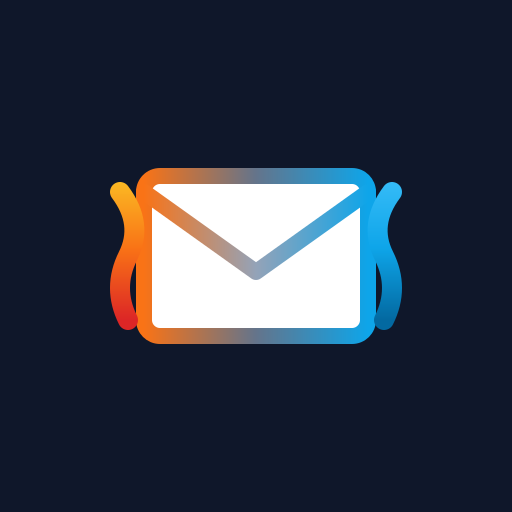
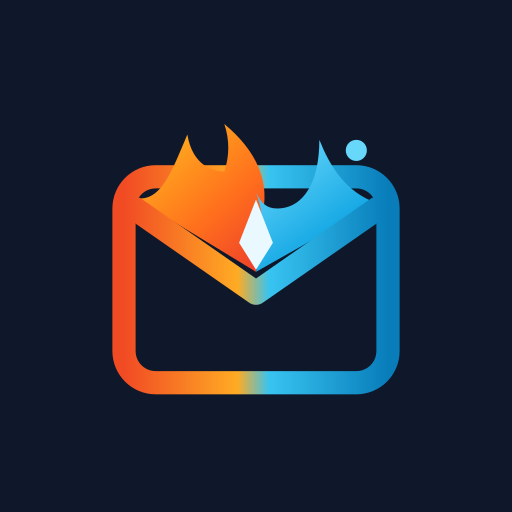
webmail: new mark, fire and water meeting in the envelope flap
The old top-bar mark was a white envelope with a fire stroke and a water
stroke on either side. At 34 px those strokes read as two coloured
brackets, and the solid paper looked heavier than the line icons next to
it. The new mark puts fire and water into the envelope itself: they rise
from either side and meet in the flap, with a light diamond where they
touch. It keeps the Elemta colours and says "mail" without needing the
side strokes.

The envelope is open, so the top bar shows through it and the same SVG
works on every theme and palette; the old "paper" fill that followed
--chrome is gone. The mark is square, so the header slot is now 32x32
instead of 34x27. Its gradient ids are prefixed logo- because inline SVG
ids share the page.

Everything that showed the old mark now shows the new one:
- favicon.svg, the same artwork.
- icon-192/512 and apple-touch-icon: the mark at 66% on the manifest's
  #0F172A. These stay opaque on purpose: iOS fills a transparent touch
  icon with black, and the 512 doubles as the maskable icon, which must
  fill its square and keep the mark inside the circular safe zone.
- badge-96: a white silhouette with the diamond cut out, since Android
  draws notification badges in one colour.
- logo-dark/light.png: the sign-in artwork's thin line envelope is
  replaced by the mark, so the sign-in page and the app agree. The fire,
  water and lettering around it are unchanged, and the image stays
  transparent.
[…]

Changed region(s): [[0.2188, 0.25, 0.7812, 0.7812], [0.7812, 0.5312, 0.8125, 0.5938], [0.1875, 0.5312, 0.2188, 0.5938]]

diff --git a/internal/webmail/templates/icons.html b/internal/webmail/templates/icons.html
@@ -2,7 +2,7 @@
 {{define "login-footer"}}<p class="login-footer">{{template "notice"}}</p>{{end}}
 {{define "notice"}}{{copyright}} · Elemta is free software under the <a href="https://www.gnu.org/licenses/gpl-3.0.html" rel="license noopener" target="_blank">GPL-3.0</a> · <a href="{{codeURL}}" rel="noopener" target="_blank">Source</a>{{end}}
 {{define "icon-signin"}}<svg class="icon" viewBox="0 0 24 24" aria-hidden="true"><path d="M15 3h4a2 2 0 012 2v14a2 2 0 01-2 2h-4"/><path d="M10 17l5-5-5-5"/><path d="M15 12H3"/></svg>{{end}}
-{{define "logo"}}<svg class="logo" viewBox="0 0 40 32" fill="none" aria-hidden="true"><rect x="6" y="6" width="28" height="20" rx="2" class="paper" stroke="url(#logo-border)" stroke-width="2"/><path d="M6 8L20 18L34 8" stroke="url(#logo-flap)" stroke-width="2" stroke-linecap="round" stroke-linejoin="round"/><path d="M4 24Q2 20 4 16Q6 12 3 8" stroke="url(#logo-fire)" stroke-width="2.5" stroke-linecap="round"/><path d="M6 22Q5 18 7 14" stroke="url(#logo-fire)" stroke-width="1.5" stroke-linecap="round"/><circle cx="3" cy="6" r="1.2" fill="#fbbf24"/><path d="M36 24Q38 20 36 16Q34 12 37 8" stroke="url(#logo-water)" stroke-width="2.5" stroke-linecap="round"/><path d="M34 22Q35 18 33 14" stroke="url(#logo-water)" stroke-width="1.5" stroke-linecap="round"/><circle cx="37" cy="6" r="1.2" fill="#38bdf8"/><defs><linearGradient id="logo-border" x1="6" y1="16" x2="34" y2="16" gradientUnits="userSpaceOnUse"><stop stop-color="#f97316"/><stop offset=".5" stop-color="#64748b"/><stop offset="1" stop-color="#0ea5e9"/></linearGradient><linearGradient id="logo-flap" x1="6" y1="13" x2="34" y2="13" gradientUnits="userSpaceOnUse"><stop stop-color="#f97316"/><stop offset=".5" stop-color="#94a3b8"/><stop offset="1" stop-color="#0ea5e9"/></linearGradient><linearGradient id="logo-fire" x1="4" y1="24" x2="4" y2="6" gradientUnits="userSpaceOnUse"><stop stop-color="#dc2626"/><stop offset=".5" stop-color="#f97316"/><stop offset="1" stop-color="#fbbf24"/></linearGradient><linearGradient id="logo-water" x1="36" y1="24" x2="36" y2="6" gradientUnits="userSpaceOnUse"><stop stop-color="#0369a1"/><stop offset=".5" stop-color="#0ea5e9"/><stop offset="1" stop-color="#38bdf8"/></linearGradient></defs></svg>{{end}}
+{{define "logo"}}<svg class="logo" viewBox="0 0 64 64" aria-hidden="true"><defs><linearGradient id="logo-rim" x1="7" y1="35" x2="57" y2="35" gradientUnits="userSpaceOnUse"><stop stop-color="#F14B24"/><stop offset=".43" stop-color="#FFAB24"/><stop offset=".55" stop-color="#38C4F1"/><stop offset="1" stop-color="#087DBA"/></linearGradient><linearGradient id="logo-fire" x1="10" y1="12" x2="32" y2="37" gradientUnits="userSpaceOnUse"><stop stop-color="#FFB21E"/><stop offset=".55" stop-color="#FF6E1D"/><stop offset="1" stop-color="#EB3B2C"/></linearGradient><linearGradient id="logo-water" x1="32" y1="14" x2="54" y2="43" gradientUnits="userSpaceOnUse"><stop stop-color="#67D7FA"/><stop offset=".54" stop-color="#14A7E4"/><stop offset="1" stop-color="#086FAD"/></linearGradient></defs><g stroke-linecap="round" stroke-linejoin="round"><rect x="7" y="17" width="50" height="39" rx="6" fill="none" stroke="url(#logo-rim)" stroke-width="4.4"/><path d="M9 21c5 1 7-5 10-12 1 6 5 7 7 7 1-3 1-6 0-9 6 5 9 11 7 18l-1 10L9 21Z" fill="url(#logo-fire)"/><path d="M55 22c-6-2-9-7-11-12 0 8-3 13-8 13-2 0-3-1-4-3 2 5 1 10 0 15l23-13Z" fill="url(#logo-water)"/><circle cx="51" cy="12" r="2" fill="#67D7FA"/><path d="m9 23 23 16 23-16" fill="none" stroke="url(#logo-rim)" stroke-width="4.5"/><path d="m28.8 29.5 3.2-8.2 3.2 8.2-3.2 5.1Z" fill="#EAF9FF"/></g></svg>{{end}}
 {{define "icon-mail"}}<svg class="icon" viewBox="0 0 24 24" aria-hidden="true"><rect x="3" y="5" width="18" height="14" rx="2"/><path d="M3 7l9 6 9-6"/></svg>{{end}}
 {{define "icon-search"}}<svg class="icon" viewBox="0 0 24 24" aria-hidden="true"><circle cx="11" cy="11" r="7"/><path d="M20 20l-3.5-3.5"/></svg>{{end}}
 {{define "icon-x"}}<svg class="icon" viewBox="0 0 24 24" aria-hidden="true"><path d="M6 6l12 12M18 6L6 18"/></svg>{{end}}

diff --git a/internal/webmail/static/tidewater.css b/internal/webmail/static/tidewater.css
@@ -1434,10 +1434,9 @@ select.compact { min-height: 36px; border: 1px solid var(--line); border-radius:
 .brand { display: flex; align-items: center; gap: 10px; color: var(--chrome-strong); text-decoration: none; font-weight: 600; font-size: 16px; }
 .brand:hover { color: var(--chrome-strong); }
 .brand .icon { width: 22px; height: 22px; stroke: var(--chrome-accent); }
-/* The envelope logo is the administration console's, gradients and all;
-   only its paper follows the theme so it sits on either top bar. */
-.brand .logo { width: 34px; height: 27px; flex: none; }
-.brand .logo .paper { fill: var(--chrome); }
+/* Fire and water meet in the envelope's flap. The envelope is open, so the
+   top bar shows through and the mark sits on either theme unchanged. */
+.brand .logo { width: 32px; height: 32px; flex: none; }
 .brand.dark { color: var(--ink); }
 .apps { display: flex; gap: 4px; }
 .apps a { display: inline-flex; align-items: center; gap: 8px; color: var(--chrome-muted); text-decoration: none; padding: 8px 12px; border-radius: 6px; white-space: nowrap; }

diff --git a/internal/webmail/features_test.go b/internal/webmail/features_test.go
@@ -598,7 +598,7 @@ func TestPalettesKeepLogoColours(t *testing.T) {
 	if err != nil {
 		t.Fatal(err)
 	}
-	logo := []string{"#dc2626", "#f97316", "#fbbf24", "#0369a1", "#0ea5e9", "#38bdf8"}
+	logo := []string{"#F14B24", "#FFAB24", "#FF6E1D", "#EB3B2C", "#38C4F1", "#14A7E4", "#087DBA", "#086FAD"}
 	block := regexp.MustCompile(`(?s):root\[data-palette="\w+"\]([^{]*)\{(.*?)\}`)
 	token := func(body, name string) string {
 		m := regexp.MustCompile(`--` + name + `: (#[0-9A-Fa-f]{6});`).FindStringSubmatch(body)
